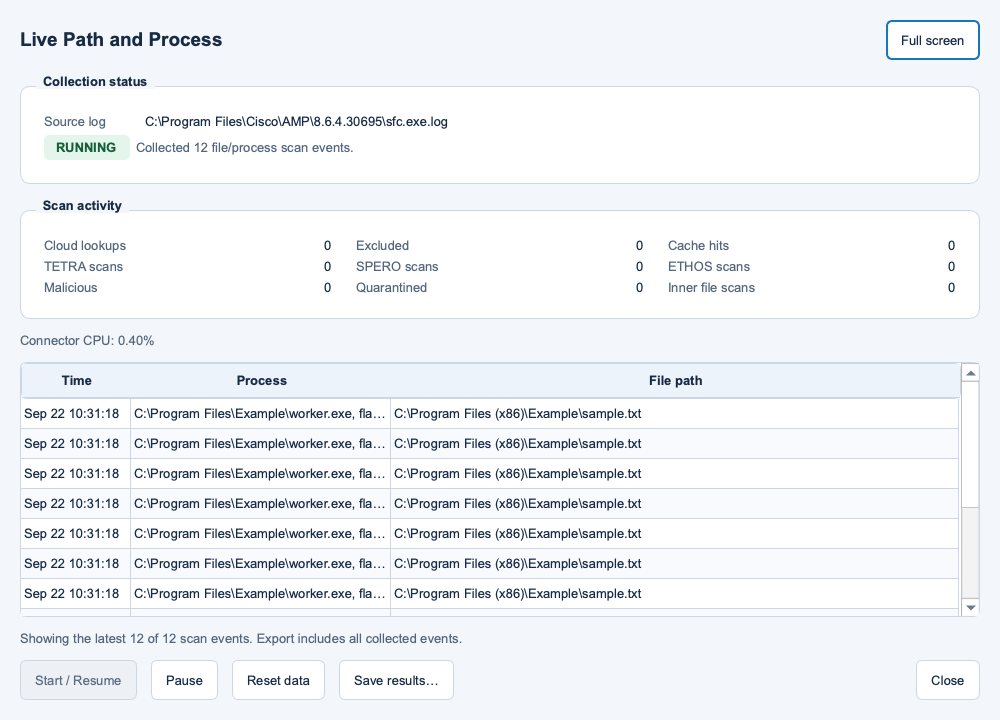
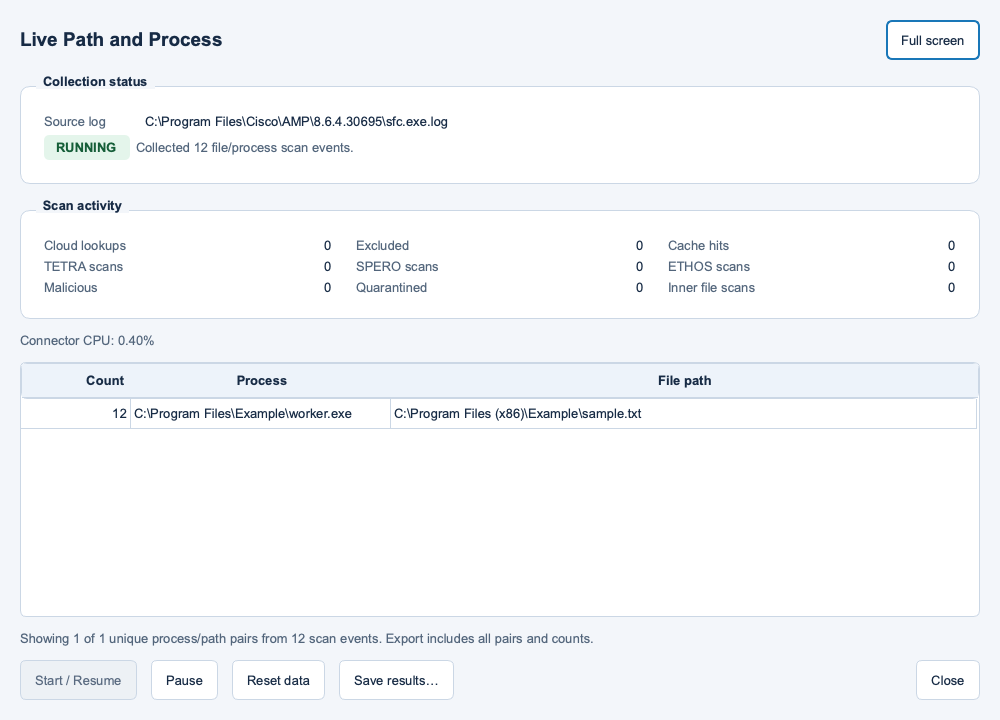
Count unique process and file path pairs in live scans

diff --git a/tests/test_gui.py b/tests/test_gui.py
@@ -195,6 +195,14 @@ class QtGuiTests(unittest.TestCase):
         dialog.start_button.click()
         wait_until(lambda: not self.window.runner.busy)
         self.assertEqual(len(self.data.data), before + 1)
+        self.assertEqual(dialog.results.rowCount(), 1)
+        self.assertEqual(dialog.results.item(0, 0).text(), "1")
+        with Path(self.data.sfc_path).open("a") as output:
+            output.write(scan_event())
+        dialog.collect()
+        wait_until(lambda: not self.window.runner.busy)
+        self.assertEqual(dialog.results.rowCount(), 1)
+        self.assertEqual(dialog.results.item(0, 0).text(), "2")
         dialog.reset_button.click()
         self.assertEqual(dialog.results.rowCount(), 0)
         self.assertEqual(dialog.status.text(), "READY")
@@ -337,15 +345,42 @@ class QtGuiTests(unittest.TestCase):
         self.assertEqual(dialog.notice.text(), "Invalid certificate")
 
     def test_live_preview_limit_does_not_limit_export(self):
-        """Keep the live table bounded while retaining every collected event for saving."""
+        """Preview the busiest 500 pairs and export all pairs with complete counts."""
+        record = dict(self.data.data[0])
+        self.data.data = [dict(record, path=f"C:\\Example\\file-{i}.txt") for i in range(600)]
+        last = self.data.data[-1]
+        self.data.data.extend([last] * 5)
+        dialog = popups.LiveScanDialog(self.data, self.window.runner, self.window)
+        self.addCleanup(dialog.close)
+        self.assertEqual(dialog.results.rowCount(), 500)
+        self.assertEqual(dialog.results.item(0, 0).text(), "6")
+        self.assertEqual(dialog.results.item(0, 2).text(), last["path"])
+        self.assertIn("500 of 600 unique process/path pairs from 605 scan events", dialog.limit_note.text())
+        with patch.object(popups, "save_text") as save:
+            dialog.save_button.click()
+        exported = save.call_args.args[1].splitlines()
+        self.assertEqual(len(exported), 601)
+        self.assertTrue(exported[1].startswith("6     | "))
+        self.assertIn("file-598.txt", exported[-1])
+
+    def test_live_pairs_accumulate_counts_and_keep_selection_on_refresh(self):
+        """Keep repeated scans in one counted row and follow it when rankings change."""
         record = dict(self.data.data[0])
         self.data.data = [record] * 600
         dialog = popups.LiveScanDialog(self.data, self.window.runner, self.window)
         self.addCleanup(dialog.close)
-        self.assertEqual(dialog.results.rowCount(), 500)
-        with patch.object(popups, "save_text") as save:
-            dialog.save_button.click()
-        self.assertEqual(save.call_args.args[1].count(record["path"]), 600)
+        self.assertEqual([dialog.results.horizontalHeaderItem(i).text() for i in range(3)],
+                         ["Count", "Process", "File path"])
+        self.assertEqual(dialog.results.rowCount(), 1)
+        self.assertEqual(dialog.results.item(0, 0).text(), "600")
+        dialog.results.selectRow(0)
+        self.data.data.extend([dict(record, path=r"C:\Example\other.txt")] * 602 + [record])
+        dialog.render_results()
+        dialog.results.copy_selection()
+        self.assertEqual(dialog.results.rowCount(), 2)
+        self.assertEqual(APP.clipboard().text(), f"601\t{record['process']}\t{record['path']}")
+        dialog.render_results()
+        self.assertEqual(dialog.results.item(1, 0).text(), "601")
 
     def test_readonly_engine_and_report_views(self):
         """Make policy diagnostics visibly read-only and expose missing values as Unknown."""

diff --git a/popups.py b/popups.py
@@ -244,16 +244,16 @@ class ManualAnalysisDialog(AnalysisDialog):
 
 
 class LiveScanDialog(LogDialog):
-    """Show recent scan events in a table and retain full collected data for export."""
+    """Rank collected scans by process or process/file-path pair, with full exports."""
 
     def __init__(self, data, runner, parent=None, processes=False):
-        """Create aligned controls, counters, and a large scrolling event/ranking table."""
+        """Create aligned controls, counters, and a large scrolling ranking table."""
         super().__init__("Live Top Processes" if processes else "Live Path and Process", data, runner, parent)
         self.processes, self.running, self.started = processes, processes, processes
         self.add_counters()
         self.cpu = text_label("", "muted")
         self.body.addWidget(self.cpu)
-        self.results = table(("Count", "Process") if processes else ("Time", "Process", "File path"))
+        self.results = table(("Count", "Process") if processes else ("Count", "Process", "File path"))
         self.body.addWidget(self.results, 1)
         self.limit_note = text_label("", "muted")
         self.body.addWidget(self.limit_note)
@@ -313,15 +313,17 @@ class LiveScanDialog(LogDialog):
             self.runner.submit(self.data.update, self.render_results, self.failure)
 
     def render_results(self, result=None):
-        """Render the newest 500 records without losing the complete export history."""
+        """Render bounded rankings using counts from the complete collection session."""
         if self.closed:
             return
         if self.processes:
             rows = ranking_rows(self.data.get_top_processes(100))
             note = "Showing the top 100 processes. Export includes all collected process rankings."
         else:
-            rows = [(record["time"], record["process"], record["path"]) for record in reversed(self.data.data[-500:])]
-            note = f"Showing the latest {len(rows)} of {len(self.data.data)} scan events. Export includes all collected events."
+            rankings = self.data.get_path_process_counts()
+            rows = rankings[:500]
+            note = (f"Showing {len(rows)} of {len(rankings)} unique process/path pairs "
+                    f"from {len(self.data.data)} scan events. Export includes all pairs and counts.")
         fill_table(self.results, rows)
         self.limit_note.setText(note)
         self.cpu.setText(f"Connector CPU: {self.data.current_cpu:.2f}%")
@@ -331,8 +333,8 @@ class LiveScanDialog(LogDialog):
             self.pause()
 
     def save_results(self):
-        """Save all collected records rather than only the bounded table preview."""
-        content = self.data.get_top_processes() if self.processes else self.data.convert_to_layout()
+        """Save every ranking with counts, including pairs beyond the table preview."""
+        content = self.data.get_top_processes() if self.processes else self.data.export_path_process_counts()
         save_text(self, content)
 
 

diff --git a/tests/test_health_checker.py b/tests/test_health_checker.py
@@ -84,6 +84,44 @@ class HealthCheckerTests(unittest.TestCase):
         self.assertIn("sample.txt", self.data.convert_to_layout())
         self.assertEqual(self.data.get_log_status()[0], "RUNNING")
 
+    def test_path_process_counts_group_pairs_across_timestamps(self):
+        """Combine repeated pairs while retaining other processes and file paths."""
+        process, other = r"C:\Example\worker.exe", r"C:\Example\other.exe"
+        path, second = r"D:\Example\sample.txt", r"D:\Example\second.txt"
+        self.data.data = [
+            {"time": "first", "process": process, "path": path},
+            {"time": "second", "process": process, "path": second},
+            {"time": "third", "process": other, "path": path},
+            {"time": "fourth", "process": process, "path": second},
+            {"time": "fifth", "process": process, "path": second},
+        ]
+        self.assertEqual(self.data.get_path_process_counts(),
+                         [(3, process, second), (1, process, path), (1, other, path)])
+        self.assertEqual(sum(row[0] for row in self.data.get_path_process_counts()), 5)
+
+    def test_pair_and_process_counts_ignore_scan_metadata(self):
+        """Count new events once even when their metadata differs between scans."""
+        self.path.write_text(scan_event() + scan_event().replace("flags=0", "flags=1"))
+        self.data.update()
+        self.data.update()
+        process = r"C:\Program Files\Example\worker.exe"
+        path = r"C:\Program Files (x86)\Example\sample.txt"
+        self.assertEqual(self.data.get_path_process_counts(), [(2, process, path)])
+        self.assertEqual(self.data.get_top_processes().split("|", 1)[1].strip(), process)
+        self.assertEqual(self.data.get_top_processes().split("|", 1)[0].strip(), "2")
+        self.data.reset_scan_data()
+        self.data.update()
+        self.assertEqual(self.data.get_path_process_counts(), [])
+
+    def test_pair_export_preserves_full_paths_and_total_counts(self):
+        """Export one row per pair without dropping Unicode, commas, or separators."""
+        process = r"C:\Example, Inc\résumé.exe"
+        path = r"D:\Example\資料 | sample.txt"
+        self.data.data = [{"time": "first", "process": process, "path": path}] * 600
+        self.assertEqual(self.data.get_path_process_counts(), [(600, process, path)])
+        self.assertEqual(self.data.export_path_process_counts(),
+                         f"Count | Process | File path\n600   | {process} | {path}")
+
     def test_malformed_event_does_not_stop_subsequent_records(self):
         """Ignore incomplete records while continuing to collect valid events."""
         self.path.write_text("Sep 22 10:31:18 Event::Handle invalid\n" + scan_event())

diff --git a/data.py b/data.py
@@ -322,7 +322,18 @@ class Data:
     def get_top_processes(self, n_count=None):
         """Rank processes by the number of collected scan events."""
         counts = Counter(self.get_processes()).most_common(n_count)
-        return "\n".join(f"{count:<5} | {process.split(',')[0]}" for process, count in counts)
+        return "\n".join(f"{count:<5} | {process}" for process, count in counts)
+
+    def get_path_process_counts(self):
+        """Rank unique process/file-path pairs across all collected scan events."""
+        counts = Counter((record["process"], record["path"]) for record in self.data)
+        return [(count, process, path) for (process, path), count in counts.most_common()]
+
+    def export_path_process_counts(self):
+        """Export every unique process/file-path pair with its complete scan count."""
+        rows = self.get_path_process_counts()
+        return "Count | Process | File path\n" + "\n".join(
+            f"{count:<5} | {process} | {path}" for count, process, path in rows)
 
     def get_top_extensions(self, n_count=None):
         '''

diff --git a/tests/test_sfc_log.py b/tests/test_sfc_log.py
@@ -29,7 +29,14 @@ class ScanEventTests(unittest.TestCase):
                 result = parse_scan_event(scan_event(timestamp))
                 self.assertEqual(result["time"], timestamp)
                 self.assertEqual(result["path"], r"C:\Program Files (x86)\Example\sample.txt")
-                self.assertEqual(result["process"].split(",")[0], r"C:\Program Files\Example\worker.exe")
+                self.assertEqual(result["process"], r"C:\Program Files\Example\worker.exe")
+
+    def test_process_path_preserves_commas_without_event_metadata(self):
+        """Keep the complete executable path while removing trailing key/value fields."""
+        process = r"C:\Program Files\Example, Inc\résumé.exe"
+        line = scan_event().replace(r"C:\Program Files\Example\worker.exe", process)
+        self.assertEqual(parse_scan_event(line)["process"], process)
+        self.assertEqual(parse_scan_event(line.replace("flags=0", "flags=42, other=1"))["process"], process)
 
     def test_normal_windows_paths(self):
         """Accept paths without the extended Windows prefix."""

diff --git a/sfc_log.py b/sfc_log.py
@@ -32,6 +32,7 @@ def parse_scan_event(line):
         return None
     path = path_match.group("path").strip()
     process = remainder[paths[-1].start():].strip()
+    process = re.split(r",\s+(?=[A-Za-z_][A-Za-z0-9_]*=)", process, maxsplit=1)[0]
     path = normalize_log_path(path)
     process = normalize_log_path(process)
     if not path or not process:

diff --git a/README.md b/README.md
@@ -67,7 +67,7 @@ Ensure Secure Endpoint is installed and running, then start `main_page.py` or th
 
 The **Dark mode: On/Off** toggle at the top right switches the dashboard and all tool windows between light and dark themes immediately. The app follows the system appearance until you choose a mode; your selection is then saved for future launches. Both themes include readable card titles, status badges, tables, text reports, and controls.
 
-Live scan events use a resizable table, and analysis categories use tabs. Every tool window has a **Full screen** button and supports **F11**. **Escape** leaves full screen first; a second Escape closes the tool. Native maximize is also available. Slow API, connectivity, file-analysis, and diagnostic operations run in a serialized background queue, keeping the interface responsive and preventing concurrent changes to connector data. Closing waits for active work to finish.
+Live scan rankings use a resizable table, and analysis categories use tabs. Every tool window has a **Full screen** button and supports **F11**. **Escape** leaves full screen first; a second Escape closes the tool. Native maximize is also available. Slow API, connectivity, file-analysis, and diagnostic operations run in a serialized background queue, keeping the interface responsive and preventing concurrent changes to connector data. Closing waits for active work to finish.
 
 Select table rows and press **Ctrl+C** to copy complete values as tab-separated text. Right-click a cell and choose **Copy value** to copy just its full path or value, even when the display shortens it. Ctrl/Shift selections allow multiple rows, and selections follow their records during live refresh. Text reports and source-log labels also support copying. Results remain read-only.
 
@@ -166,11 +166,11 @@ If authentication is required, use a URL such as `http://user:password@proxy.exa
 
 ### Live paths / processes
 
-Open **Live paths / processes** to inspect file/process scan events, connector CPU usage, and scan activity counters. The view includes the selected source log and an explicit collection status.
+Open **Live paths / processes** to see **Count**, **Process**, and **File path** for each unique process/file-path pair, ranked by the highest scan count. Repeated scans of the same pair increase its count instead of adding duplicate rows. The view also includes connector CPU usage, scan activity counters, the selected source log, and an explicit collection status.
 
-![Live file and process scan events with collection controls and activity counters](images/Live_Debugging.png)
+![Live process and file-path rankings with scan counts and collection controls](images/Live_Debugging.png)
 
-Press **Start / Resume** to begin collection, **Pause** to stop polling, and **Start / Resume** to continue. **Reset data** clears collected counters and results without rereading old log records. **Save results…** exports every collected event; the table previews only the latest 500. **Close** returns to the dashboard.
+Press **Start / Resume** to begin collection, **Pause** to stop polling, and **Start / Resume** to continue with the existing counts. **Reset data** clears collected counters and results without rereading old log records. The table previews the top 500 unique pairs, using counts from all collected events. **Save results…** exports every unique pair and its count, including pairs beyond the preview limit. **Close** returns to the dashboard.
 
 ### Live Top Processes
 
